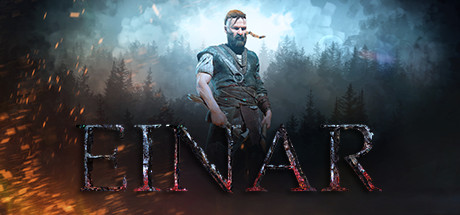
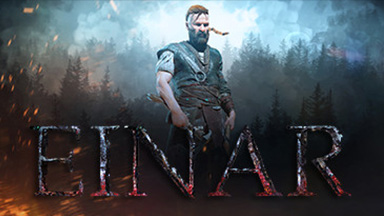
Added more responsiveness, updated einar thumbnail and fixed thumbnail sizes

diff --git a/css/main.css b/css/main.css
@@ -2,10 +2,16 @@
 @import url(//fonts.googleapis.com/css?family=Open+Sans);
 body {
   margin: auto;
-  width: 45%;
+  width: 55%;
   background-color: #F1F3F4;
   font-family: 'Open Sans', sans-serif;
   color: #373D3F;
+}
+
+@media screen and (max-width: 1440px) {
+  body {
+    width: 70%;
+  }
 }
 
 @media screen and (max-width: 1080px) {
@@ -205,10 +211,12 @@ pre {
   
   padding-left: 10px;
   max-width: 40%;
+  height: 216px;
   box-sizing: border-box;
 }
 
 #portfolioList .thumbnail {
+  width: 384px;
   max-width: 100%;
   max-height: 100%;
 }

diff --git a/_includes/defaultHeader.html b/_includes/defaultHeader.html
@@ -1,3 +1,4 @@
 <title>{{ page.title }}</title>
+<meta name="viewport" content="width=device-width, initial-scale=1.0"> 
 <link rel="stylesheet" type="text/css" href="/css/reset.css">
 <link rel="stylesheet" type="text/css" href="/css/main.css">
